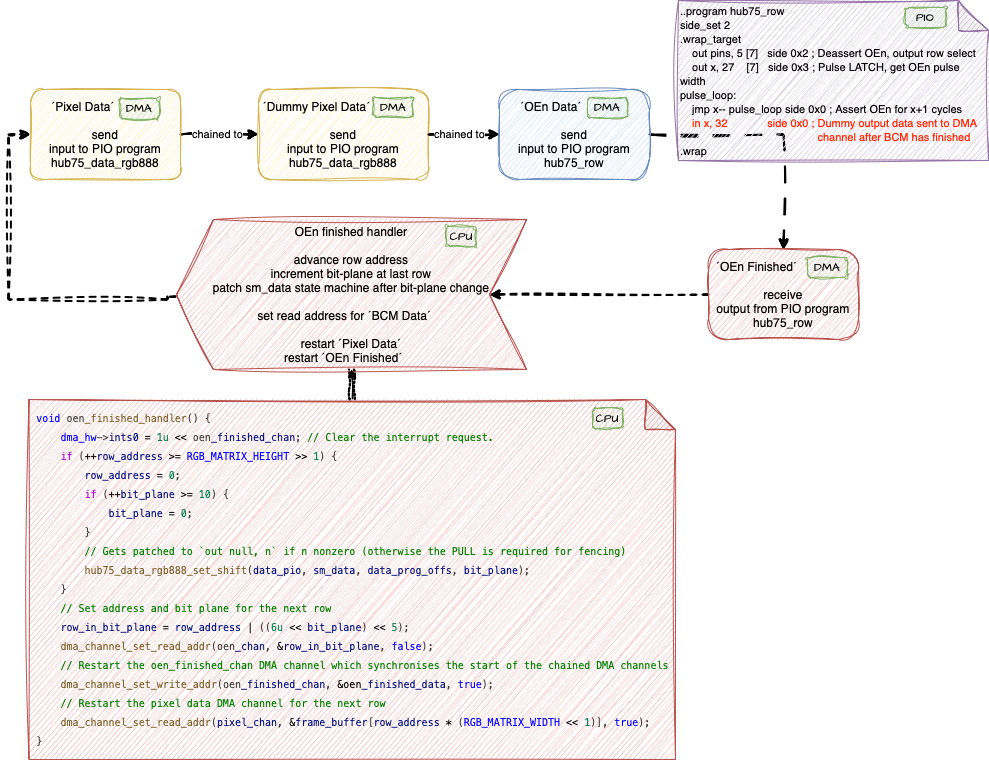
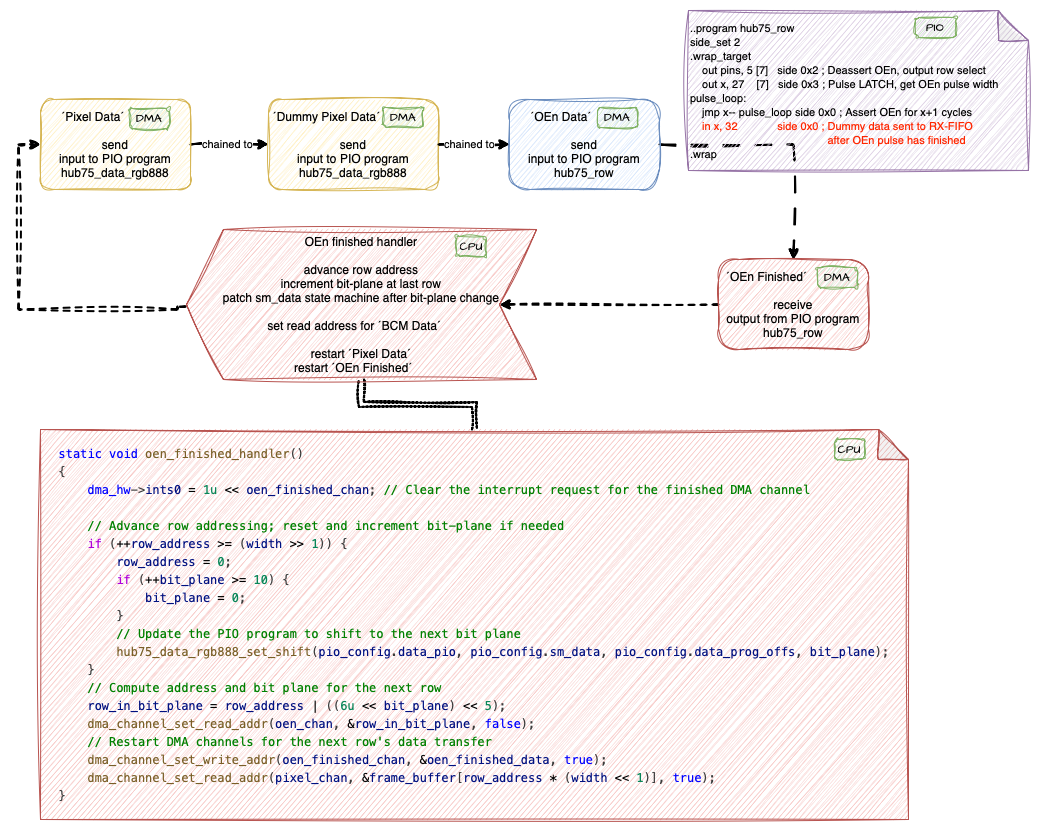
Add files via upload
README.md in progress

Changed region(s): [[0.0, 0.0, 1.0, 1.0]]

diff --git a/README.md b/README.md
@@ -3,27 +3,51 @@
 Work in progress ...
 
 
-**Documentation**
+**Documentation and References**
 
+This project is based on Raspberry Pi's [pico-examples/pio/hub75](https://github.com/raspberrypi/pico-examples/tree/master/pio/hub75) and Pimoroni's [pimoroni/.../drivers/hub75](https://github.com/pimoroni/pimoroni-pico/tree/main/drivers/hub75).
 
-This project is based on [pico-examples/pio/hub75](https://github.com/raspberrypi/pico-examples/tree/master/pio/hub75) and [pimoroni/.../drivers/hub75](https://github.com/pimoroni/pimoroni-pico/tree/main/drivers/hub75)
+If you want to understand how RGB matrix panels work, the article [Everything You Didn't Want to Know About RGB Matrix Panels](https://news.sparkfun.com/2650) is a good starting point. Binary Coded Modulation (BCM) is described in detail in [LED dimming using Binary Code Modulation](https://www.batsocks.co.uk/readme/art_bcm_3.htm).
 
-***History***
+***Achievements of the Revised Driver***
 
-For a private project I needed to acquire some knowledge of the Raspberry Pi Pico Microcontroller. An internet search gave me the free [Raspberry Pi Pico Lectures 2022](https://www.youtube.com/playlist?list=PLDqMkB5cbBA5oDg8VXM110GKc-CmvUqEZ) by [Hunter Adams](https://vanhunteradams.com/) which are mind blowing good! If your focus is on Picos <b>P</b>rogrammable <b>I</b>nput <b>O</b>utput (PIO) you can jump in at [Raspberry Pi Pico Lecture 15: PIO Overview and Examples](https://www.youtube.com/watch?v=wet9CYpKZOQ).
+The modifications to the [pimeroni hub75 driver](https://github.com/pimoroni/pimoroni-pico/tree/main/drivers/hub75) result in the following improvements:
+
+- work moved from cpu processor to DMA and PIO co-processors
+- improved performance by mutually self paced interlinked DMA and PIO processes
+- no need for <code>hub75_wait_tx_stall</code> any more and therefore this method can be removed
+- reduced code in interrupt handler
+
+In summary, it can be said that this leads to an increase in the performance of the Hub75 driver and, as a side-effect, no ghost images occurred in tests up to 250 MHz system clock.
+
+***Motivation***
+
+For a private project I needed to acquire some knowledge of the Raspberry Pi Pico Microcontroller. On the internet I found the free [Raspberry Pi Pico Lectures 2022](https://www.youtube.com/playlist?list=PLDqMkB5cbBA5oDg8VXM110GKc-CmvUqEZ) by [Hunter Adams](https://vanhunteradams.com/) which are mind blowing good! If your focus is on Picos <b>P</b>rogrammable <b>I</b>nput <b>O</b>utput (PIO) you can jump in at [Raspberry Pi Pico Lecture 15: PIO Overview and Examples](https://www.youtube.com/watch?v=wet9CYpKZOQ).
+
+Hunter Adams remarks about DMA and PIO co-processors inspired me to optimise the HUB75 driver as a self assigned task.
 
 ***Genealogy***
 
-The [Pico HUB75 example](https://github.com/raspberrypi/pico-examples/tree/master/pio/hub75) shows how to interface a HUB75 LED matrix panel with Picos PIO capabilities. It serves educational purposes and clarity and ease of understanding is its primary focus.
+****Raspberry Pi Pico HUB75 Example****
 
+The [Pico HUB75 example](https://github.com/raspberrypi/pico-examples/tree/master/pio/hub75) shows how to connect a HUB75 LED matrix panel with Picos PIO capabilities. It is for educational purposes. The emphasis is on clarity and ease of understanding.
 
-Pixel data transferred to the sm_data state machine is some kind o input - output, therefore prone to be processed by Direct Memory Access (DMA). Input are the pixels transferred to the state machines RX-FIFO. This is one of three significant changes done by the pimoroni-pico implementation of the HUB75 algorithm.
+The colour palette is generated by modulating the output enable (OE) signal. This is done by applying the Binary Coded Modulation (BCM) algorithm to the OE signal. The modulation is done row by row. For each row, all color bits are modulated before the same process is applied to the next row. <code>hub75_wait_tx_stall</code> is essential for synchronisation. No DMA is used in this implementation to drive performance. 
 
-![hub_pimoroni](assets/pimoroni.png)
+****Pimoroni HUB75 Driver****
 
-***DMA & PIO Biased***
+The [pimeroni hub75 driver](https://github.com/pimoroni/pimoroni-pico/tree/main/drivers/hub75) builds on the Raspberry Pi Pico implementation. It improves performance by changing from row-wise to plane-wise handling of modulation and by using DMA for passing pixel data to the PIO state machine.
+Pimoroni's implementation relies on <code>hub75_wait_tx_stall</code>, too.
 
-Up to now <code>hub75_wait_tx_stall</code> had been indispensable. This method actively waits until the state machine has stalled on empty TX FIFO during a blocking PULL, or an OUT with autopull enabled. Without this method, checking that previous OEn pulse is finished, things WILL get out of sequence. This method somehow stands in the way and precludes an approach based on chained DMA channels which than feed PIOs.
+*****Schematics of Pimoronis DMA handling*****
+
+Pixel data transferred to the sm_data state machine is some kind of input - output process, therefore prone to be handled by Direct Memory Access (DMA). DMA-Input are the pixels transferred to the state machines RX-FIFO (DMA-Output).
+
+![hub_pimoroni](assets/pimoroni_dma.png)
+
+***Obstacle <code>hub75_wait_tx_stall</code>***
+
+In Raspberry Pi's and Pimoroni's implementation <code>hub75_wait_tx_stall</code> was indispensable. This method actively waits until the state machine has stalled on empty TX FIFO during a blocking PULL, or an OUT with autopull enabled. Without this method to check if an OEn pulse has finished, things WOULD get out of sequence. This method kind of gets in the way and precludes an approach based on chained DMA channels that then feed PIOs.
 
 ```c
 static inline void hub75_wait_tx_stall(PIO pio, uint sm) {
@@ -32,19 +56,22 @@ static inline void hub75_wait_tx_stall(PIO pio, uint sm) {
     while (!(pio->fdebug & txstall_mask))
         tight_loop_contents();
 }
-````
+```
+*Code of hub75_wait_tx_stall*
 
-So, how to get the information that the OEn pulse is finished ?
-The PIO program ${\color{red}hub75\_row}$ listed below emits the OEn pulse and is checked by <code>hub75_wait_tx_stall</code>. The program takes a 32 bit word as input. It uses the first 5 bits of the input to address the row. The remaining 27 bits assert Output Enable for the number of cycles specified as value.
-
-The key to the solution is to add the $\texttt{{\color{red}{ in x, 32 \space\space\space   side 0x0 }}}$ statement after the pulse loop. This statement always emits the value of the x register at that time (4,294,967,295) to the RX FIFO. By retrieving this dummy value from the RX-FIFO it is granted that the pulse loop has finished. The obvious way to retrieve this dummy value is by setting up a DMA channel which retrieves this value.
-
+So, is there another way to get the information that the OEn pulse is finished ?
+Currently the PIO program <code>hub75_row</code> listed below emits the OEn pulse and is checked by <code>hub75_wait_tx_stall</code>. The program takes a 32 bit word as input. It uses the first 5 bits of the input to address the row. The remaining 27 bits assert Output Enable for the number of cycles specified. In the pulse_loop the OE signal is held low for this number of cycles.
 
 <img src="assets/hub75_row.png" width="360" height="186">
 
-Here the source code for the DMA channel ´bcm_finished_chan´. It is setup to read one RX-FIFO entry into the same location ´bcm_finished_data´. The value stored into ´bcm_finished_data´ is always the dummy value 4,294,967,295 which is of no interest. The timing of the transfer from the state machines RX-FIFO is the key as it happens after the pulse loop has finished.
+The first step is to add a statement after the pulse loop which emits a value to the RX FIFO. The second step is to setup a DMA channel which retrieves this dummy value from the RX-FIFO. The third step is to establish an interrupt handler for this DMA channel. When this interrupt ist executed it is granted that the pulse loop has finished.
 
-The complete sequence and interaction between each DMA and its assigned state-machine is depicted in the diagram below. 
+***Schematics of DMA Chains and related PIO State Machines for the Present HUB75 Driver Implementation***
+
+![hub75_dma](assets/hub75_dma.png)
+*Picture 1: Chained DMA Channels and assigned PIOs*
+
+The complete sequence and interaction between each DMA and its assigned state-machine is depicted in the above diagram. 
 
 1. As in the pimeroni solution an interlaced double row of pixel data (input) is sent to the LED panels shift register via the ´pixel data´ DMA which feeds the hub75_rdata_gb888 state machine (output). 
 
@@ -57,20 +84,11 @@ The complete sequence and interaction between each DMA and its assigned state-ma
 
 5. The ´OEn data´ DMA channel takes 32 bits as input and deliveres this data to the hub75_row state machine. Output is enabled for the specified time for each LED in the row addressed if a bit is set in the current bit-plane. In other words, all LEDs in the row are lit which have a colour bit set for the current bit-plane.
 
-6. The 'OEn finished' DMA channel is patiently waiting for the output of the ´OEn data´ DMA channel. The value of the data (4,294,967,295) is irrelevant. Relevant is only when the data is delivered. This is the case after the OEn pulse has finished. The 'OEn finished' DMA channel has an attached interrupt handler ´oen_finished_handler´. This handler sets up the DMA channels for the next row and for BCM.
+6. The 'OEn finished' DMA channel is patiently waiting for the output of the ´OEn data´ DMA channel. The value of the data (4,294,967,295) is irrelevant. Relevant is only when the data is delivered. This is the case after the OEn pulse has finished. The 'OEn finished' DMA channel has an attached interrupt handler ´oen_finished_handler´. This handler sets up the DMA channels for the next row and for the OEn pulse.
 
-![hub75_dma](assets/hub75_dma.png)
 
-*Picture 1: Chained DMA Channels and assigned PIOs*
 
-The modifications yield additional improvements with respect to the [pimeroni hub75 driver](https://github.com/pimoroni/pimoroni-pico/tree/main/drivers/hub75):
 
-- work moved from cpu processor to DMA and PIO co-processors
-- mutually self paced interlinked DMA and PIO processes
-- no need for <code>hub75_wait_tx_stall</code> any more
-- reduced cpu code in interrupt handler leads to better performance and less cpu load
-
-A side-effect - no ghost images occured in testing up to 250MHz system clock.
 
 
 
